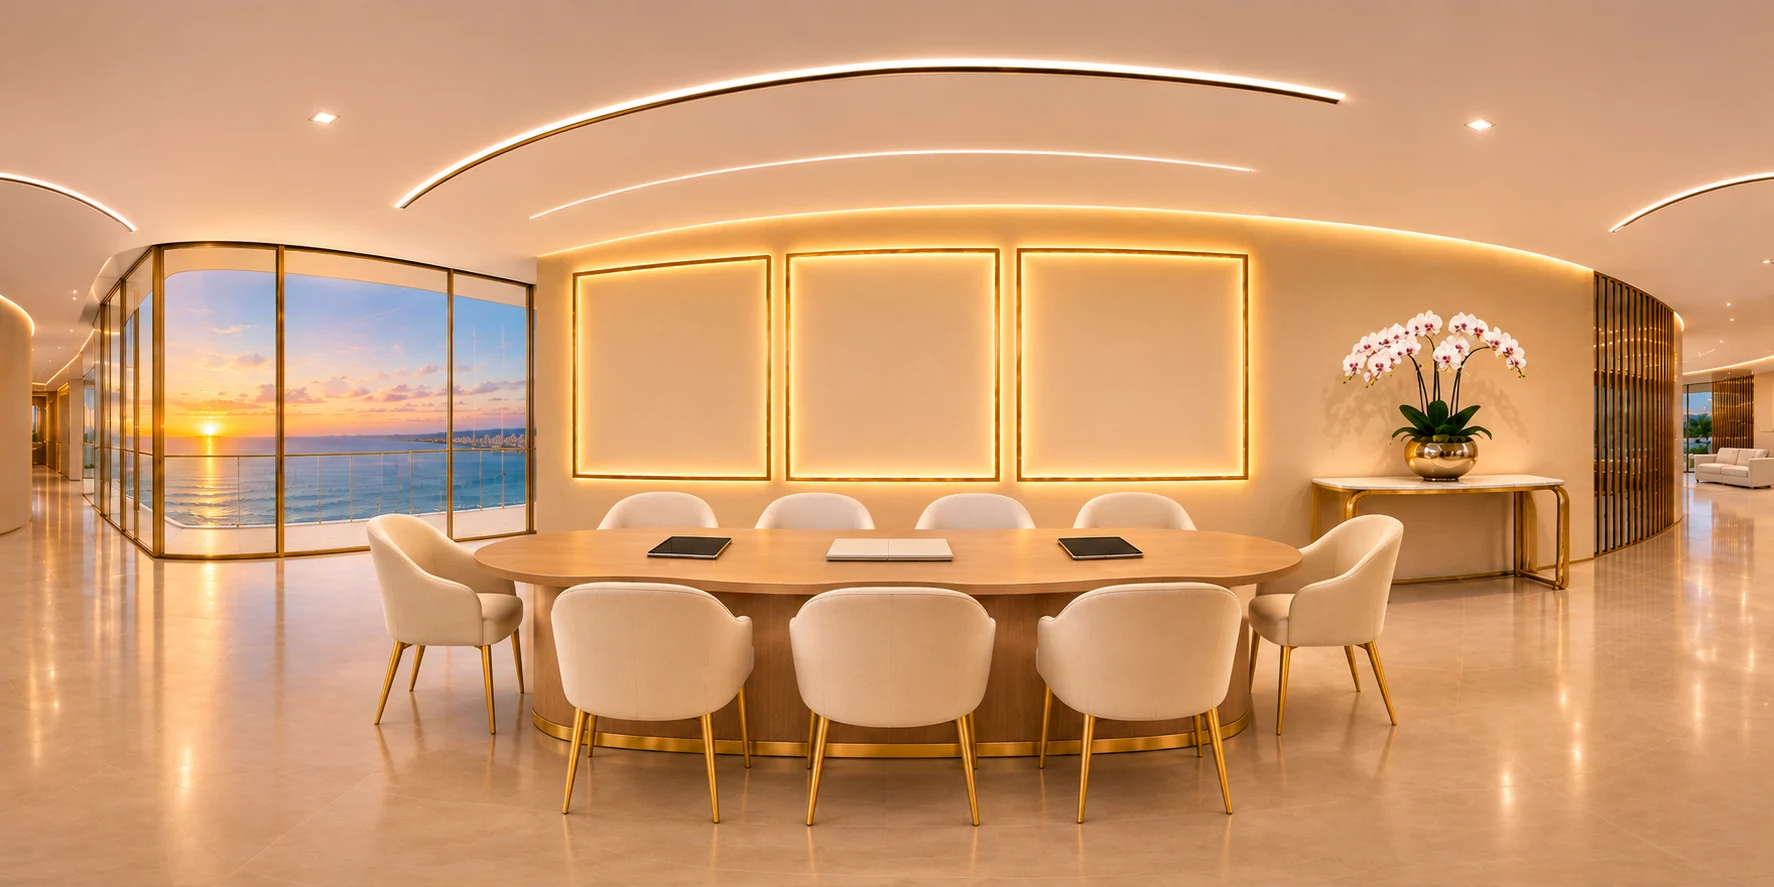
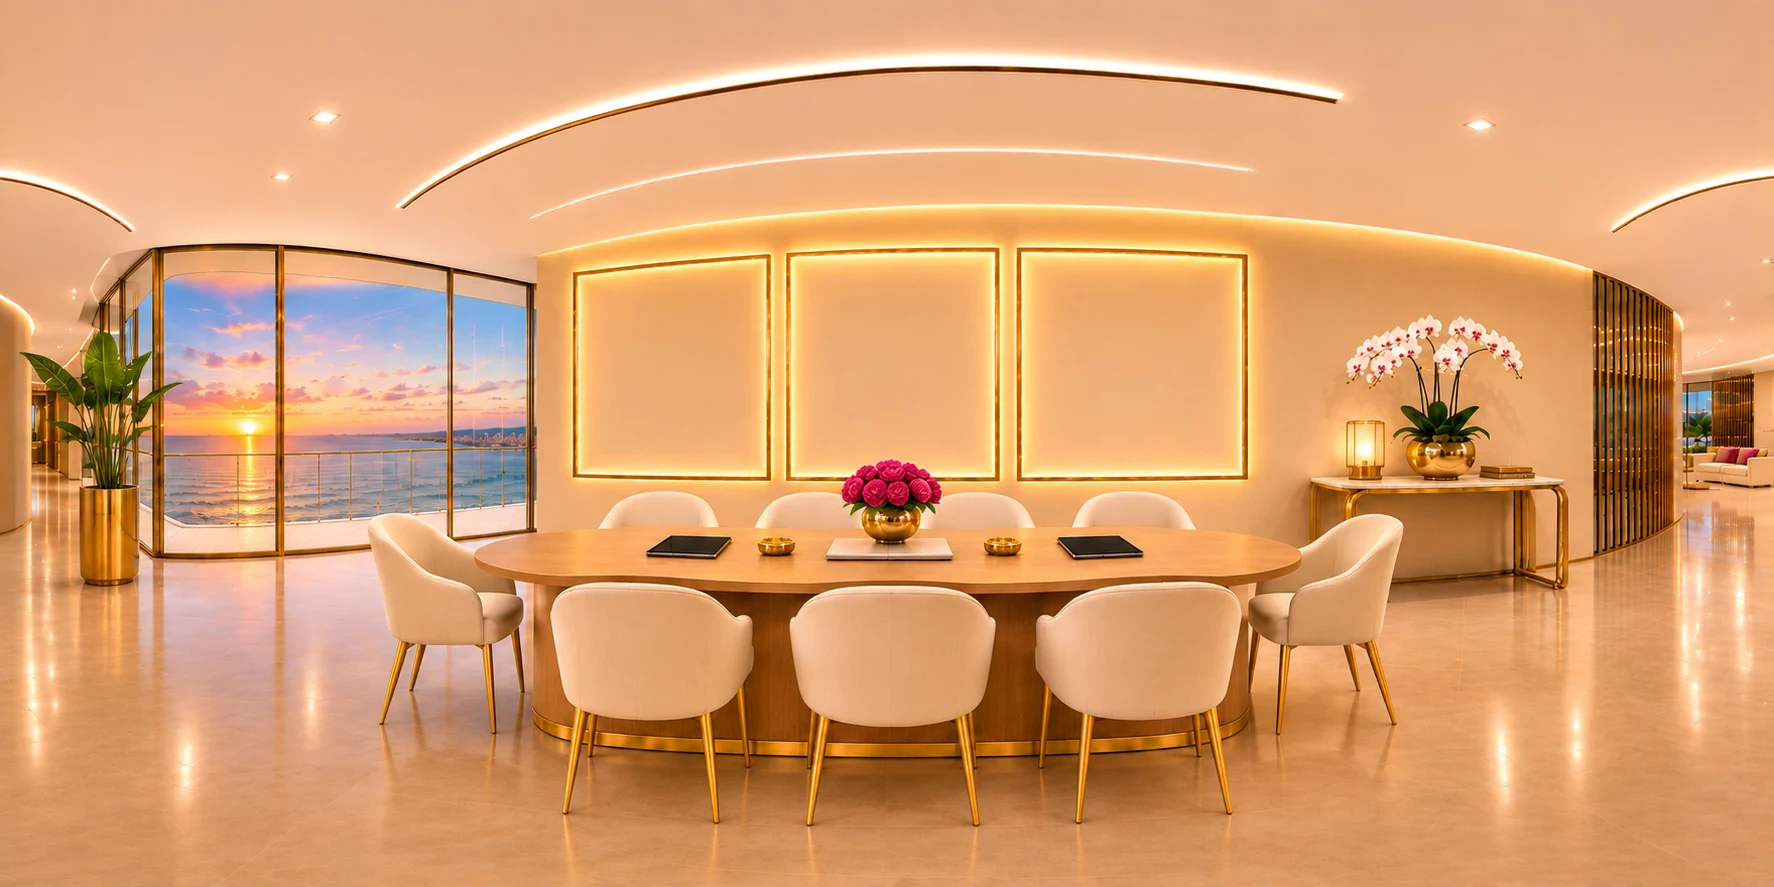
Sala de paquetes 360°: nueva versión de la foto
Claude-Session: https://claude.ai/code/session_01N9LMnzoHcTVnJVvaoy1ZZX

diff --git a/boutiques/ventas/oficina360.js b/boutiques/ventas/oficina360.js
@@ -49,7 +49,7 @@
     lobbyA: { k: "open", src: IMG + "recepcion360-abierta.webp", yaw: -42, hots: [{ x: 36, y: 47, l: "sea", a: "out" }, { x: 20, y: 72, l: "toSofa", to: "lobby2", yaw: 0 }, { x: 96, y: 60, l: "toHall", to: "pasillo", yaw: 0 }], wave: 0.06, water: WL, peek: -50 },
     lobby2: { k: "pt", src: IMG + "recepcion360-sofas.webp", yaw: 0, hots: [{ x: 50, y: 56, l: "sea", a: "out" }, { x: 79, y: 70, l: "toDesk", to: "lobby", yaw: 55 }, { x: 96, y: 60, l: "toHall", to: "pasillo", yaw: 0 }], wave: 0, water: { u0: .31, u1: .69, v0: .498, v1: .512, b0: .522, b1: .54, amp: .0009 }, peek: 0 },
     pasillo: { k: "pt", src: IMG + "recepcion360-pasillo.webp", yaw: 0, peek: 0, wave: 0, hots: [{ x: 7, y: 62, l: "toLobby", to: "lobby", yaw: 60 }, { x: 32, y: 55, l: "rMio", room: "mioficina" }, { x: 68, y: 55, l: "rRes", room: "oficina" }, { x: 44, y: 52, l: "rDemo", room: "salon" }, { x: 90, y: 52, l: "rPack", to: "paq360", yaw: 0 }] },
-    paq360: { k: "pt", src: IMG + "paquetes360.webp", yaw: 0, peek: 0, wave: 0, paint: paintPk, water: { u0: .09, u1: .3, v0: .495, v1: .51, b0: .525, b1: .56, amp: .0008 },
+    paq360: { k: "pt", src: IMG + "paquetes360.webp?v=2", yaw: 0, peek: 0, wave: 0, paint: paintPk, water: { u0: .09, u1: .3, v0: .495, v1: .51, b0: .525, b1: .56, amp: .0008 },
       hots: [{ x: 37.9, y: 50, l: "GOLD", room: "paquetes", raw: 1, flat: 1 }, { x: 50.4, y: 50, l: "PLATINUM", room: "paquetes", raw: 1, flat: 1 }, { x: 63.9, y: 50, l: "DIAMOND", room: "paquetes", raw: 1, flat: 1 }, { x: 3, y: 60, l: "backHall", to: "pasillo", yaw: 0 }] },
     salon360: { k: "pt", src: IMG + "salon360.webp", yaw: 0, peek: 0, wave: 0, paint: paintTV, water: { u0: .003, u1: .255, v0: .527, v1: .545, b0: .556, b1: .62, amp: .0008 },
       hots: [{ x: 50, y: 62, l: "tvDemo", room: "salon", flat: 1 }, { x: 96, y: 66, l: "backHall", to: "pasillo", yaw: 0 }] },

diff --git a/boutiques/ventas.html b/boutiques/ventas.html
@@ -63,7 +63,7 @@
 <script src="asesoras/datos-en.js?v=1"></script>
 <script src="ventas/oficina.js?v=2"></script>
 <script src="pano.js?v=4"></script>
-<script src="ventas/oficina360.js?v=19"></script>
+<script src="ventas/oficina360.js?v=20"></script>
 <script src="ventas/sea.js?v=1"></script>
 <script src="ventas/ventas.js?v=25"></script>
 </body>
